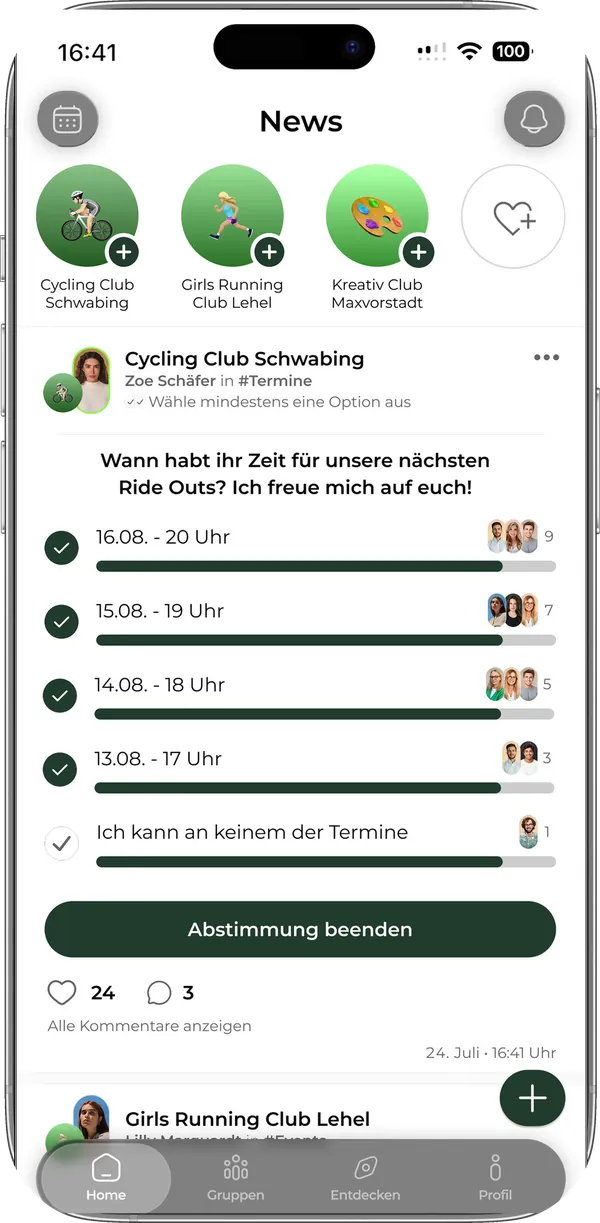
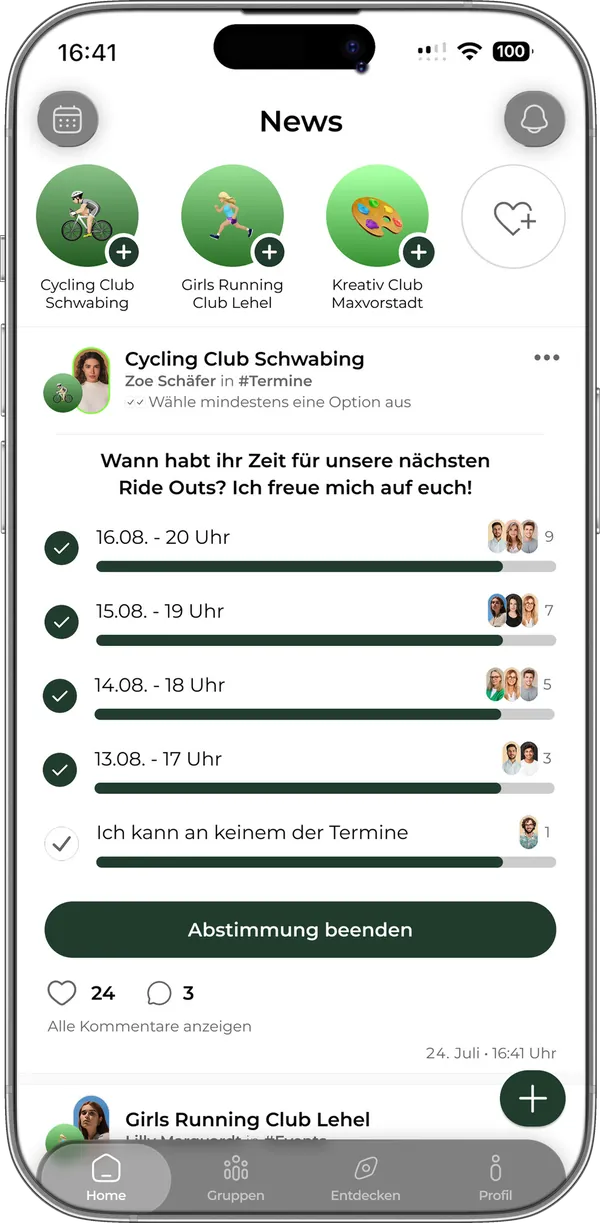
App-Mockups: Ecken exakt an Bildschirmrundung angepasst und weichgezeichnet

diff --git a/creator.html b/creator.html
@@ -214,11 +214,11 @@
     <h2 data-i18n="app.h">Eine App – viele Features</h2>
     <div class="appshots">
       <div class="appcol">
-        <img src="mock-feed.webp" alt="Clero App – Feed mit Terminen und Umfragen" loading="lazy" />
+        <img src="mock-feed.webp?v=2" alt="Clero App – Feed mit Terminen und Umfragen" loading="lazy" />
         <div class="cap" data-i18n="app.cap1">Termine, Umfragen &amp; Feed – alles an einem Ort, ohne Chat-Chaos.</div>
       </div>
       <div class="appcol">
-        <img src="mock-map.webp" alt="Clero App – Community-Karte von München" loading="lazy" />
+        <img src="mock-map.webp?v=2" alt="Clero App – Community-Karte von München" loading="lazy" />
         <div class="cap" data-i18n="app.cap2">Auf der Karte entdeckt werden – Menschen finden deine Gruppe in ihrer Nähe.</div>
       </div>
     </div>
